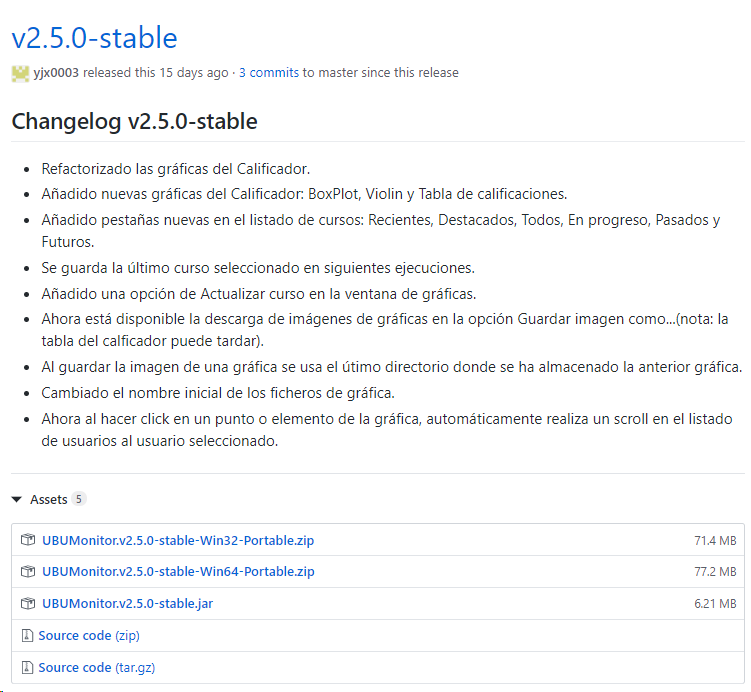
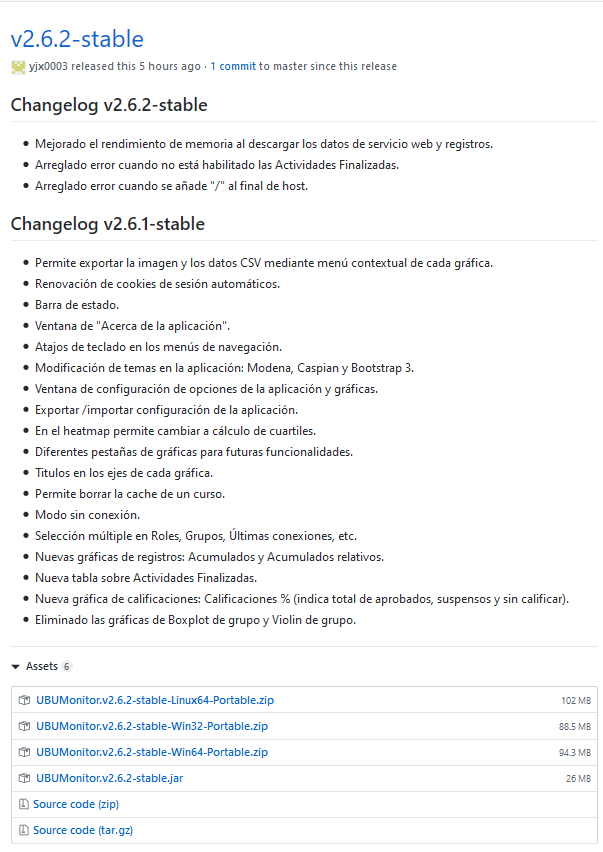
Changed installation and introduction.

Changed region(s): [[0.0, 0.0303, 0.9851, 1.0], [0.9254, 0.7587, 1.0, 0.9408]]

diff --git a/docs/source/install.rst b/docs/source/install.rst
@@ -11,34 +11,48 @@ Se mostrará una entrada similar a la siguiente (*Nota: los números de versión
 
   Descarga desde GithHub de UBUMonitor
 
-En la zona de **Assets** se muestran los posibles ficheros a descargar para su ejecución. Solo interesan los tres primeros:
+En la zona de **Assets** se muestran los posibles ficheros a descargar para su ejecución. Solo interesan los cuatro primeros:
 
-* ``UBUMonitor.v2.5.0-stable-Win32-Portable.zip``: versión portable para sistema operativo Windows 32 bits.
-* ``UBUMonitor.v2.5.0-stable-Win64-Portable.zip``: versión portable para sistema operativo Windows 64 bits.
-* ``UBUMonitor.v2.5.0-stable.jar``: versión multiplataforma ejecutable con Java instalado en el sistema operativo. Versión para Windows, GNU/Linux o Mac.
+* ``UBUMonitor.v2.6.2-stable-Linux64-Portable.zip``: versión portable para sistema operativo GNU/Linux 64 bits.
+* ``UBUMonitor.v2.6.2-stable-Win32-Portable.zip``: versión portable para sistema operativo Windows 32 bits.
+* ``UBUMonitor.v2.6.2-stable-Win64-Portable.zip``: versión portable para sistema operativo Windows 64 bits.
+* ``UBUMonitor.v2.6.2-stable.jar``: versión multiplataforma ejecutable con Java instalado en el sistema operativo. Versión para Windows, GNU/Linux o Mac.
 
 Se ofrecen dos versiones: 
 
-* Versión portable (con mínima instalación) para **Windows** descomprimiendo un fichero .zip.
+* Versión portable (con mínima instalación) para **Windows** y **GNU/Linux** descomprimiendo un fichero .zip. 
 * Versión fichero ejecutable java (con extensión ``.jar``) para **TODAS** las plataformas.
+
+Versión portable para GNU/Linux
+-----------------------------
+
+Si se trabaja en GNU/Linux, y no se quiere instalar Java en el equipo actual (o no se quiere cambiar la configuración), se sugiere descargar la versión portable de 64 bits. 
+
+Pasos para su instalación:
+
+* Copiar el fichero descargado con sufijo ``-Portable.zip`` a un directorio a libre elección del usuario, donde tenga permisos de escritura y ejecución.
+* Descomprimir el fichero con sufijo ``-Portable.zip`` correspondiente con alguna herramienta tipo tar, gzip, bzip2, etc.
+* En el directorio generado al descomprimir, dar permisos de ejecución al script ``run.sh`` (con chmod) y ejecutar.
+
+*Nota: las versiones portables incluyen dentro del fichero ``.zip`` un JRE 8 con JavaFX, por eso ocupan más espacio.*
 
 Versión portable para Windows
 -----------------------------
 
-Si se trabaja en Windows, y no se quiere instalar Java en el equipo actual, se sugiere descargar la versión portable que corresponda, según el sistema operativo sea de 32 o 64 bits. 
+Si se trabaja en Windows, y no se quiere instalar Java en el equipo actual (o no se quiere cambiar la configuración), se sugiere descargar la versión portable que corresponda, según el sistema operativo sea de 32 o 64 bits. 
 
 Pasos para su instalación:
 
 * Copiar el fichero descargado con sufijo ``-Portable.zip`` a un directorio a libre elección del usuario, donde tenga permisos de escritura y ejecución.
 * Descomprimir el fichero con sufijo ``-Portable.zip`` correspondiente con alguna herramienta tipo WinZip, 7Zip, WinRar, etc.
-* En el directorio generado al descomprimir, hacer doble click sobre el fichero ejecutable con extensión ``.exe`` (e.g. ``UBUMonitor.v2.5.0-stable-Win64.exe``)
+* En el directorio generado al descomprimir, hacer doble click sobre el fichero ejecutable con extensión ``.exe`` (e.g. ``UBUMonitor.v2.6.2-stable-Win64.exe``)
 
-*Nota: las versiones portables incluyen dentro del fichero ``.zip`` un JDK 8 con JavaFX, por eso ocupan más espacio.*
+*Nota: las versiones portables incluyen dentro del fichero ``.zip`` un JRE 8 con JavaFX, por eso ocupan más espacio.*
 
 Versión ejecutable con Java 8
 -----------------------------
 
-Si no se trabaja en Windows, o bien no se quiere usar la versión portable, es requisito tener instalada una versión de Java 8. En particular la distribución oficial de Oracle que sí incluye las bibliotecas de JavaFX. Con versiones posteriores **NO** funcionará correctamente, así como tampoco con versiones libres (e.g. OpenJDK, AdoptOpenJDK, Amazon Correto, etc.) que no incluyan las bibliotecas de JavaFX.
+Si no se trabaja en Windows, o bien no se quiere usar la versión portable, es requisito tener instalada una versión de Java 8. En particular la distribución oficial de Oracle que sí incluye las bibliotecas de JavaFX. Con versiones posteriores **NO** funcionará correctamente, así como tampoco con versiones libres (e.g. OpenJDK, AdoptOpenJDK, Amazon Correto, etc.) que no incluyan las bibliotecas de JavaFX (habría que instalar JavaFX adicionalmente).
  
 Suponiendo que se tiene ya instalada dicha versión Java 8 (y que es la versión de Java activa) se siguen los siguientes pasos:
 
@@ -48,7 +62,7 @@ Suponiendo que se tiene ya instalada dicha versión Java 8 (y que es la versión
 Si Java está asociado correctamente a la extensión ``.jar`` se ejecutar la aplicación.
 Si no, ejecutar desde una consola del sistema operativo, en el directorio donde se tenga el fichero ``.jar`` lo siguiente: 
    
-* ``$> java -jar UBUMonitor.v2.5.0.jar``
+* ``$> java -jar UBUMonitor.v2.6.2-stable.jar``
 
 *Nota: el número de versión puede ir cambiando.*
 

diff --git a/docs/source/introduction.rst b/docs/source/introduction.rst
@@ -1,7 +1,7 @@
 Introducción y requisitos
 =========================
 
-UBUMonitor es una *aplicación cliente de escritorio* que permite conectarse a un *servidor Moodle* para la monitorización de la actividad particular de los alumnos. Permite extraer los datos del calificador y registros (logs) de nuestras asignaturas, visualizando dichos datos de una manera más amigable para el profesor.
+UBUMonitor es una *aplicación cliente de escritorio* que permite conectarse a un *servidor Moodle* para la monitorización de la actividad particular de los alumnos. Permite extraer los datos del calificador, registros (logs) y finalización de actividad de nuestras asignaturas, visualizando dichos datos de una manera más amigable para el profesor.
 
 Requisitos de instalación
 -------------------------
@@ -10,8 +10,8 @@ Requisitos de instalación
 * Disponer de conexión a Internet.
 * Disponer de un mínimo de:
 
-   * *175 MB libres* de disco duro para la versión portable.
-   * *6 MB* libre de disco si ya se tiene instalado Java 8.
+   * *250 MB libres* de disco duro para la versión portable, que incluye el Java Runtime Environment (JRE).
+   * *26 MB* libre de disco si ya se tiene instalado Java 8.
 
 Requisitos en Moodle
 --------------------
@@ -26,5 +26,6 @@ Requisitos en Moodle
 
    * Configurar correctamente (en **Editar ajustes** del curso), en **General**, la  *Fecha de inicio del curso* y *Fecha de finalización del curso* (habilitada) en sus asignaturas. En caso contrario, la selección inicial de cursos (en las pestañas *En progreso*, *Futuros* y *Pasados*) y los filtros de fecha para los gráficos de registros **NO funcionarán correctamente**.
    * Tener **visibles los porcentajes** de la asignatura en el **calificador de Moodle**. En caso contrario **NO se podrán cargar los datos del calificador**.
+   * Activar en **Editar ajustes** del curso, en el apartado **Rastreo de finalización** la opción **Habilitar rastreo del grado de finalización**. Una vez realizado ese cambio se recomienda ajustar la opción **Finalización de actividad** para cada actividad y recurso, si se quiere utilizar el gráfico correspondiente.
    * Tener **definidos grupos en la asignatura** si se quieren utilizar los filtros y gráficos particulares sobre grupos.
 
